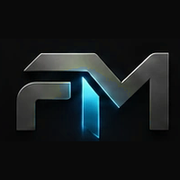
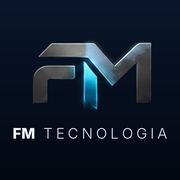
Marca FM: ícones com luz no M, versões com escrita e imagem de compartilhamento
Claude-Session: https://claude.ai/code/session_01Vcx29QXnjhTsQQfNTdbbAU

diff --git a/docs/index.html b/docs/index.html
@@ -1,5 +1,5 @@
 <!doctype html><html lang="pt-BR"><head><meta charset="utf-8"><meta name="viewport" content="width=device-width,initial-scale=1">
-<title>FM Tecnologia — IA para melhorar hoje e evoluir o amanhã.</title><meta name="description" content="Tecnologia que conecta operação, dados e inteligência. Produtos inteligentes para transformar processos, acelerar decisões e preparar operações para crescer."><link rel="icon" type="image/png" href="./assets/brand/fm/favicon.png"><link rel="apple-touch-icon" href="./assets/brand/fm/apple-touch-icon.png">
+<title>FM Tecnologia — IA para melhorar hoje e evoluir o amanhã.</title><meta name="description" content="Tecnologia que conecta operação, dados e inteligência. Produtos inteligentes para transformar processos, acelerar decisões e preparar operações para crescer."><meta property="og:title" content="FM Tecnologia — IA para melhorar hoje e evoluir o amanhã."><meta property="og:description" content="Tecnologia que conecta operação, dados e inteligência. Produtos inteligentes para transformar processos, acelerar decisões e preparar operações para crescer."><meta property="og:type" content="website"><meta property="og:image" content="https://fmtecnologiaia.com.br/assets/brand/fm/compartilhar-1200x630.png"><meta name="twitter:card" content="summary_large_image"><link rel="icon" type="image/png" href="./assets/brand/fm/favicon.png"><link rel="apple-touch-icon" href="./assets/brand/fm/apple-touch-icon.png">
 <script>try{var t=localStorage.getItem('fm-theme');if(t)document.documentElement.setAttribute('data-theme',t)}catch(e){}</script>
 <link rel="preconnect" href="https://fonts.googleapis.com"><link rel="preconnect" href="https://fonts.gstatic.com" crossorigin><link href="https://fonts.googleapis.com/css2?family=Inter:wght@400;500;600;700;800&display=swap" rel="stylesheet"><link rel="stylesheet" href="./assets/site.css"></head><body>
 <a class="skip" href="#conteudo">Pular para o conteúdo</a><header class="nav"><div class="wrap"><a class="brand" href="./"><span class="wm"><img src="./assets/brand/fm/logo-fm.webp" width="626" height="114" alt="FM Tecnologia"><small>IA para melhorar hoje e evoluir o amanhã.</small></span></a>

diff --git a/docs/produtos/atendevendeia.html b/docs/produtos/atendevendeia.html
@@ -1,5 +1,5 @@
 <!doctype html><html lang="pt-BR"><head><meta charset="utf-8"><meta name="viewport" content="width=device-width,initial-scale=1">
-<title>AtendeVendeIA — FM Tecnologia</title><meta name="description" content="Atende no WhatsApp, leva ao link de pagamento e retoma vendas paradas, com preço e link sempre do seu cadastro."><link rel="icon" type="image/png" href="../assets/brand/fm/favicon.png"><link rel="apple-touch-icon" href="../assets/brand/fm/apple-touch-icon.png">
+<title>AtendeVendeIA — FM Tecnologia</title><meta name="description" content="Atende no WhatsApp, leva ao link de pagamento e retoma vendas paradas, com preço e link sempre do seu cadastro."><meta property="og:title" content="AtendeVendeIA — FM Tecnologia"><meta property="og:description" content="Atende no WhatsApp, leva ao link de pagamento e retoma vendas paradas, com preço e link sempre do seu cadastro."><meta property="og:type" content="website"><meta property="og:image" content="https://fmtecnologiaia.com.br/assets/brand/fm/compartilhar-1200x630.png"><meta name="twitter:card" content="summary_large_image"><link rel="icon" type="image/png" href="../assets/brand/fm/favicon.png"><link rel="apple-touch-icon" href="../assets/brand/fm/apple-touch-icon.png">
 <script>try{var t=localStorage.getItem('fm-theme');if(t)document.documentElement.setAttribute('data-theme',t)}catch(e){}</script>
 <link rel="preconnect" href="https://fonts.googleapis.com"><link rel="preconnect" href="https://fonts.gstatic.com" crossorigin><link href="https://fonts.googleapis.com/css2?family=Inter:wght@400;500;600;700;800&display=swap" rel="stylesheet"><link rel="stylesheet" href="../assets/site.css"></head><body>
 <a class="skip" href="#conteudo">Pular para o conteúdo</a><header class="nav"><div class="wrap"><a class="brand" href="../"><span class="wm"><img src="../assets/brand/fm/logo-fm.webp" width="626" height="114" alt="FM Tecnologia"><small>IA para melhorar hoje e evoluir o amanhã.</small></span></a>

diff --git a/docs/produtos/command.html b/docs/produtos/command.html
@@ -1,5 +1,5 @@
 <!doctype html><html lang="pt-BR"><head><meta charset="utf-8"><meta name="viewport" content="width=device-width,initial-scale=1">
-<title>FM Command — FM Tecnologia</title><meta name="description" content="Central executiva governada para consolidar produtos, métricas, operação e inteligência em uma única visão."><link rel="icon" type="image/png" href="../assets/brand/fm/favicon.png"><link rel="apple-touch-icon" href="../assets/brand/fm/apple-touch-icon.png">
+<title>FM Command — FM Tecnologia</title><meta name="description" content="Central executiva governada para consolidar produtos, métricas, operação e inteligência em uma única visão."><meta property="og:title" content="FM Command — FM Tecnologia"><meta property="og:description" content="Central executiva governada para consolidar produtos, métricas, operação e inteligência em uma única visão."><meta property="og:type" content="website"><meta property="og:image" content="https://fmtecnologiaia.com.br/assets/brand/fm/compartilhar-1200x630.png"><meta name="twitter:card" content="summary_large_image"><link rel="icon" type="image/png" href="../assets/brand/fm/favicon.png"><link rel="apple-touch-icon" href="../assets/brand/fm/apple-touch-icon.png">
 <script>try{var t=localStorage.getItem('fm-theme');if(t)document.documentElement.setAttribute('data-theme',t)}catch(e){}</script>
 <link rel="preconnect" href="https://fonts.googleapis.com"><link rel="preconnect" href="https://fonts.gstatic.com" crossorigin><link href="https://fonts.googleapis.com/css2?family=Inter:wght@400;500;600;700;800&display=swap" rel="stylesheet"><link rel="stylesheet" href="../assets/site.css"></head><body>
 <a class="skip" href="#conteudo">Pular para o conteúdo</a><header class="nav"><div class="wrap"><a class="brand" href="../"><span class="wm"><img src="../assets/brand/fm/logo-fm.webp" width="626" height="114" alt="FM Tecnologia"><small>IA para melhorar hoje e evoluir o amanhã.</small></span></a>

diff --git a/docs/produtos/erp-core.html b/docs/produtos/erp-core.html
@@ -1,5 +1,5 @@
 <!doctype html><html lang="pt-BR"><head><meta charset="utf-8"><meta name="viewport" content="width=device-width,initial-scale=1">
-<title>ERP Core — FM Tecnologia</title><meta name="description" content="O primeiro módulo em construção é o controle de estoque por lote e validade, com baixa pelo que vence primeiro."><link rel="icon" type="image/png" href="../assets/brand/fm/favicon.png"><link rel="apple-touch-icon" href="../assets/brand/fm/apple-touch-icon.png">
+<title>ERP Core — FM Tecnologia</title><meta name="description" content="O primeiro módulo em construção é o controle de estoque por lote e validade, com baixa pelo que vence primeiro."><meta property="og:title" content="ERP Core — FM Tecnologia"><meta property="og:description" content="O primeiro módulo em construção é o controle de estoque por lote e validade, com baixa pelo que vence primeiro."><meta property="og:type" content="website"><meta property="og:image" content="https://fmtecnologiaia.com.br/assets/brand/fm/compartilhar-1200x630.png"><meta name="twitter:card" content="summary_large_image"><link rel="icon" type="image/png" href="../assets/brand/fm/favicon.png"><link rel="apple-touch-icon" href="../assets/brand/fm/apple-touch-icon.png">
 <script>try{var t=localStorage.getItem('fm-theme');if(t)document.documentElement.setAttribute('data-theme',t)}catch(e){}</script>
 <link rel="preconnect" href="https://fonts.googleapis.com"><link rel="preconnect" href="https://fonts.gstatic.com" crossorigin><link href="https://fonts.googleapis.com/css2?family=Inter:wght@400;500;600;700;800&display=swap" rel="stylesheet"><link rel="stylesheet" href="../assets/site.css"></head><body>
 <a class="skip" href="#conteudo">Pular para o conteúdo</a><header class="nav"><div class="wrap"><a class="brand" href="../"><span class="wm"><img src="../assets/brand/fm/logo-fm.webp" width="626" height="114" alt="FM Tecnologia"><small>IA para melhorar hoje e evoluir o amanhã.</small></span></a>

diff --git a/docs/produtos/iron-fit.html b/docs/produtos/iron-fit.html
@@ -1,5 +1,5 @@
 <!doctype html><html lang="pt-BR"><head><meta charset="utf-8"><meta name="viewport" content="width=device-width,initial-scale=1">
-<title>Iron Fit Core — FM Tecnologia</title><meta name="description" content="Gestão, alunos, treinos, avaliações, agenda, acesso, equipamentos e financeiro em uma operação conectada."><link rel="icon" type="image/png" href="../assets/brand/fm/favicon.png"><link rel="apple-touch-icon" href="../assets/brand/fm/apple-touch-icon.png">
+<title>Iron Fit Core — FM Tecnologia</title><meta name="description" content="Gestão, alunos, treinos, avaliações, agenda, acesso, equipamentos e financeiro em uma operação conectada."><meta property="og:title" content="Iron Fit Core — FM Tecnologia"><meta property="og:description" content="Gestão, alunos, treinos, avaliações, agenda, acesso, equipamentos e financeiro em uma operação conectada."><meta property="og:type" content="website"><meta property="og:image" content="https://fmtecnologiaia.com.br/assets/brand/fm/compartilhar-1200x630.png"><meta name="twitter:card" content="summary_large_image"><link rel="icon" type="image/png" href="../assets/brand/fm/favicon.png"><link rel="apple-touch-icon" href="../assets/brand/fm/apple-touch-icon.png">
 <script>try{var t=localStorage.getItem('fm-theme');if(t)document.documentElement.setAttribute('data-theme',t)}catch(e){}</script>
 <link rel="preconnect" href="https://fonts.googleapis.com"><link rel="preconnect" href="https://fonts.gstatic.com" crossorigin><link href="https://fonts.googleapis.com/css2?family=Inter:wght@400;500;600;700;800&display=swap" rel="stylesheet"><link rel="stylesheet" href="../assets/site.css"></head><body>
 <a class="skip" href="#conteudo">Pular para o conteúdo</a><header class="nav"><div class="wrap"><a class="brand" href="../"><span class="wm"><img src="../assets/brand/fm/logo-fm.webp" width="626" height="114" alt="FM Tecnologia"><small>IA para melhorar hoje e evoluir o amanhã.</small></span></a>

diff --git a/docs/produtos/campaia.html b/docs/produtos/campaia.html
@@ -1,5 +1,5 @@
 <!doctype html><html lang="pt-BR"><head><meta charset="utf-8"><meta name="viewport" content="width=device-width,initial-scale=1">
-<title>CampaIA — FM Tecnologia</title><meta name="description" content="Da ideia à campanha no Google, no Facebook, no Instagram e no WhatsApp, com IA que propõe e você aprova."><link rel="icon" type="image/png" href="../assets/brand/fm/favicon.png"><link rel="apple-touch-icon" href="../assets/brand/fm/apple-touch-icon.png">
+<title>CampaIA — FM Tecnologia</title><meta name="description" content="Da ideia à campanha no Google, no Facebook, no Instagram e no WhatsApp, com IA que propõe e você aprova."><meta property="og:title" content="CampaIA — FM Tecnologia"><meta property="og:description" content="Da ideia à campanha no Google, no Facebook, no Instagram e no WhatsApp, com IA que propõe e você aprova."><meta property="og:type" content="website"><meta property="og:image" content="https://fmtecnologiaia.com.br/assets/brand/fm/compartilhar-1200x630.png"><meta name="twitter:card" content="summary_large_image"><link rel="icon" type="image/png" href="../assets/brand/fm/favicon.png"><link rel="apple-touch-icon" href="../assets/brand/fm/apple-touch-icon.png">
 <script>try{var t=localStorage.getItem('fm-theme');if(t)document.documentElement.setAttribute('data-theme',t)}catch(e){}</script>
 <link rel="preconnect" href="https://fonts.googleapis.com"><link rel="preconnect" href="https://fonts.gstatic.com" crossorigin><link href="https://fonts.googleapis.com/css2?family=Inter:wght@400;500;600;700;800&display=swap" rel="stylesheet"><link rel="stylesheet" href="../assets/site.css"></head><body>
 <a class="skip" href="#conteudo">Pular para o conteúdo</a><header class="nav"><div class="wrap"><a class="brand" href="../"><span class="wm"><img src="../assets/brand/fm/logo-fm.webp" width="626" height="114" alt="FM Tecnologia"><small>IA para melhorar hoje e evoluir o amanhã.</small></span></a>

diff --git a/docs/produtos/nfcore.html b/docs/produtos/nfcore.html
@@ -1,5 +1,5 @@
 <!doctype html><html lang="pt-BR"><head><meta charset="utf-8"><meta name="viewport" content="width=device-width,initial-scale=1">
-<title>NFCore — FM Tecnologia</title><meta name="description" content="Reduz erros humanos, diminui o retrabalho operacional e centraliza a gestão fiscal no Core."><link rel="icon" type="image/png" href="../assets/brand/fm/favicon.png"><link rel="apple-touch-icon" href="../assets/brand/fm/apple-touch-icon.png">
+<title>NFCore — FM Tecnologia</title><meta name="description" content="Reduz erros humanos, diminui o retrabalho operacional e centraliza a gestão fiscal no Core."><meta property="og:title" content="NFCore — FM Tecnologia"><meta property="og:description" content="Reduz erros humanos, diminui o retrabalho operacional e centraliza a gestão fiscal no Core."><meta property="og:type" content="website"><meta property="og:image" content="https://fmtecnologiaia.com.br/assets/brand/fm/compartilhar-1200x630.png"><meta name="twitter:card" content="summary_large_image"><link rel="icon" type="image/png" href="../assets/brand/fm/favicon.png"><link rel="apple-touch-icon" href="../assets/brand/fm/apple-touch-icon.png">
 <script>try{var t=localStorage.getItem('fm-theme');if(t)document.documentElement.setAttribute('data-theme',t)}catch(e){}</script>
 <link rel="preconnect" href="https://fonts.googleapis.com"><link rel="preconnect" href="https://fonts.gstatic.com" crossorigin><link href="https://fonts.googleapis.com/css2?family=Inter:wght@400;500;600;700;800&display=swap" rel="stylesheet"><link rel="stylesheet" href="../assets/site.css"></head><body>
 <a class="skip" href="#conteudo">Pular para o conteúdo</a><header class="nav"><div class="wrap"><a class="brand" href="../"><span class="wm"><img src="../assets/brand/fm/logo-fm.webp" width="626" height="114" alt="FM Tecnologia"><small>IA para melhorar hoje e evoluir o amanhã.</small></span></a>

diff --git a/docs/produtos/super-core-extreme.html b/docs/produtos/super-core-extreme.html
@@ -1,5 +1,5 @@
 <!doctype html><html lang="pt-BR"><head><meta charset="utf-8"><meta name="viewport" content="width=device-width,initial-scale=1">
-<title>Super Core Extreme — FM Tecnologia</title><meta name="description" content="Pesquisa e desenvolvimento da FM Tecnologia. Sem oferta comercial nesta etapa."><link rel="icon" type="image/png" href="../assets/brand/fm/favicon.png"><link rel="apple-touch-icon" href="../assets/brand/fm/apple-touch-icon.png">
+<title>Super Core Extreme — FM Tecnologia</title><meta name="description" content="Pesquisa e desenvolvimento da FM Tecnologia. Sem oferta comercial nesta etapa."><meta property="og:title" content="Super Core Extreme — FM Tecnologia"><meta property="og:description" content="Pesquisa e desenvolvimento da FM Tecnologia. Sem oferta comercial nesta etapa."><meta property="og:type" content="website"><meta property="og:image" content="https://fmtecnologiaia.com.br/assets/brand/fm/compartilhar-1200x630.png"><meta name="twitter:card" content="summary_large_image"><link rel="icon" type="image/png" href="../assets/brand/fm/favicon.png"><link rel="apple-touch-icon" href="../assets/brand/fm/apple-touch-icon.png">
 <script>try{var t=localStorage.getItem('fm-theme');if(t)document.documentElement.setAttribute('data-theme',t)}catch(e){}</script>
 <link rel="preconnect" href="https://fonts.googleapis.com"><link rel="preconnect" href="https://fonts.gstatic.com" crossorigin><link href="https://fonts.googleapis.com/css2?family=Inter:wght@400;500;600;700;800&display=swap" rel="stylesheet"><link rel="stylesheet" href="../assets/site.css"></head><body>
 <a class="skip" href="#conteudo">Pular para o conteúdo</a><header class="nav"><div class="wrap"><a class="brand" href="../"><span class="wm"><img src="../assets/brand/fm/logo-fm.webp" width="626" height="114" alt="FM Tecnologia"><small>IA para melhorar hoje e evoluir o amanhã.</small></span></a>

diff --git a/docs/produtos/kordena.html b/docs/produtos/kordena.html
@@ -1,5 +1,5 @@
 <!doctype html><html lang="pt-BR"><head><meta charset="utf-8"><meta name="viewport" content="width=device-width,initial-scale=1">
-<title>Kordena — FM Tecnologia</title><meta name="description" content="Gestão inteligente de ponta a ponta para negócios do setor alimentício."><link rel="icon" type="image/png" href="../assets/brand/fm/favicon.png"><link rel="apple-touch-icon" href="../assets/brand/fm/apple-touch-icon.png">
+<title>Kordena — FM Tecnologia</title><meta name="description" content="Gestão inteligente de ponta a ponta para negócios do setor alimentício."><meta property="og:title" content="Kordena — FM Tecnologia"><meta property="og:description" content="Gestão inteligente de ponta a ponta para negócios do setor alimentício."><meta property="og:type" content="website"><meta property="og:image" content="https://fmtecnologiaia.com.br/assets/brand/fm/compartilhar-1200x630.png"><meta name="twitter:card" content="summary_large_image"><link rel="icon" type="image/png" href="../assets/brand/fm/favicon.png"><link rel="apple-touch-icon" href="../assets/brand/fm/apple-touch-icon.png">
 <script>try{var t=localStorage.getItem('fm-theme');if(t)document.documentElement.setAttribute('data-theme',t)}catch(e){}</script>
 <link rel="preconnect" href="https://fonts.googleapis.com"><link rel="preconnect" href="https://fonts.gstatic.com" crossorigin><link href="https://fonts.googleapis.com/css2?family=Inter:wght@400;500;600;700;800&display=swap" rel="stylesheet"><link rel="stylesheet" href="../assets/site.css"></head><body>
 <a class="skip" href="#conteudo">Pular para o conteúdo</a><header class="nav"><div class="wrap"><a class="brand" href="../"><span class="wm"><img src="../assets/brand/fm/logo-fm.webp" width="626" height="114" alt="FM Tecnologia"><small>IA para melhorar hoje e evoluir o amanhã.</small></span></a>

diff --git a/docs/produtos.html b/docs/produtos.html
@@ -1,5 +1,5 @@
 <!doctype html><html lang="pt-BR"><head><meta charset="utf-8"><meta name="viewport" content="width=device-width,initial-scale=1">
-<title>Produtos — FM Tecnologia</title><meta name="description" content="Conheça o portfólio e o estágio de cada iniciativa da FM Tecnologia."><link rel="icon" type="image/png" href="./assets/brand/fm/favicon.png"><link rel="apple-touch-icon" href="./assets/brand/fm/apple-touch-icon.png">
+<title>Produtos — FM Tecnologia</title><meta name="description" content="Conheça o portfólio e o estágio de cada iniciativa da FM Tecnologia."><meta property="og:title" content="Produtos — FM Tecnologia"><meta property="og:description" content="Conheça o portfólio e o estágio de cada iniciativa da FM Tecnologia."><meta property="og:type" content="website"><meta property="og:image" content="https://fmtecnologiaia.com.br/assets/brand/fm/compartilhar-1200x630.png"><meta name="twitter:card" content="summary_large_image"><link rel="icon" type="image/png" href="./assets/brand/fm/favicon.png"><link rel="apple-touch-icon" href="./assets/brand/fm/apple-touch-icon.png">
 <script>try{var t=localStorage.getItem('fm-theme');if(t)document.documentElement.setAttribute('data-theme',t)}catch(e){}</script>
 <link rel="preconnect" href="https://fonts.googleapis.com"><link rel="preconnect" href="https://fonts.gstatic.com" crossorigin><link href="https://fonts.googleapis.com/css2?family=Inter:wght@400;500;600;700;800&display=swap" rel="stylesheet"><link rel="stylesheet" href="./assets/site.css"></head><body>
 <a class="skip" href="#conteudo">Pular para o conteúdo</a><header class="nav"><div class="wrap"><a class="brand" href="./"><span class="wm"><img src="./assets/brand/fm/logo-fm.webp" width="626" height="114" alt="FM Tecnologia"><small>IA para melhorar hoje e evoluir o amanhã.</small></span></a>

diff --git a/docs/solucoes.html b/docs/solucoes.html
@@ -1,5 +1,5 @@
 <!doctype html><html lang="pt-BR"><head><meta charset="utf-8"><meta name="viewport" content="width=device-width,initial-scale=1">
-<title>Soluções — FM Tecnologia</title><meta name="description" content="Tecnologia conectada ao movimento do negócio."><link rel="icon" type="image/png" href="./assets/brand/fm/favicon.png"><link rel="apple-touch-icon" href="./assets/brand/fm/apple-touch-icon.png">
+<title>Soluções — FM Tecnologia</title><meta name="description" content="Tecnologia conectada ao movimento do negócio."><meta property="og:title" content="Soluções — FM Tecnologia"><meta property="og:description" content="Tecnologia conectada ao movimento do negócio."><meta property="og:type" content="website"><meta property="og:image" content="https://fmtecnologiaia.com.br/assets/brand/fm/compartilhar-1200x630.png"><meta name="twitter:card" content="summary_large_image"><link rel="icon" type="image/png" href="./assets/brand/fm/favicon.png"><link rel="apple-touch-icon" href="./assets/brand/fm/apple-touch-icon.png">
 <script>try{var t=localStorage.getItem('fm-theme');if(t)document.documentElement.setAttribute('data-theme',t)}catch(e){}</script>
 <link rel="preconnect" href="https://fonts.googleapis.com"><link rel="preconnect" href="https://fonts.gstatic.com" crossorigin><link href="https://fonts.googleapis.com/css2?family=Inter:wght@400;500;600;700;800&display=swap" rel="stylesheet"><link rel="stylesheet" href="./assets/site.css"></head><body>
 <a class="skip" href="#conteudo">Pular para o conteúdo</a><header class="nav"><div class="wrap"><a class="brand" href="./"><span class="wm"><img src="./assets/brand/fm/logo-fm.webp" width="626" height="114" alt="FM Tecnologia"><small>IA para melhorar hoje e evoluir o amanhã.</small></span></a>

diff --git a/docs/empresa.html b/docs/empresa.html
@@ -1,5 +1,5 @@
 <!doctype html><html lang="pt-BR"><head><meta charset="utf-8"><meta name="viewport" content="width=device-width,initial-scale=1">
-<title>Empresa — FM Tecnologia</title><meta name="description" content="IA para melhorar hoje e evoluir o amanhã."><link rel="icon" type="image/png" href="./assets/brand/fm/favicon.png"><link rel="apple-touch-icon" href="./assets/brand/fm/apple-touch-icon.png">
+<title>Empresa — FM Tecnologia</title><meta name="description" content="IA para melhorar hoje e evoluir o amanhã."><meta property="og:title" content="Empresa — FM Tecnologia"><meta property="og:description" content="IA para melhorar hoje e evoluir o amanhã."><meta property="og:type" content="website"><meta property="og:image" content="https://fmtecnologiaia.com.br/assets/brand/fm/compartilhar-1200x630.png"><meta name="twitter:card" content="summary_large_image"><link rel="icon" type="image/png" href="./assets/brand/fm/favicon.png"><link rel="apple-touch-icon" href="./assets/brand/fm/apple-touch-icon.png">
 <script>try{var t=localStorage.getItem('fm-theme');if(t)document.documentElement.setAttribute('data-theme',t)}catch(e){}</script>
 <link rel="preconnect" href="https://fonts.googleapis.com"><link rel="preconnect" href="https://fonts.gstatic.com" crossorigin><link href="https://fonts.googleapis.com/css2?family=Inter:wght@400;500;600;700;800&display=swap" rel="stylesheet"><link rel="stylesheet" href="./assets/site.css"></head><body>
 <a class="skip" href="#conteudo">Pular para o conteúdo</a><header class="nav"><div class="wrap"><a class="brand" href="./"><span class="wm"><img src="./assets/brand/fm/logo-fm.webp" width="626" height="114" alt="FM Tecnologia"><small>IA para melhorar hoje e evoluir o amanhã.</small></span></a>
